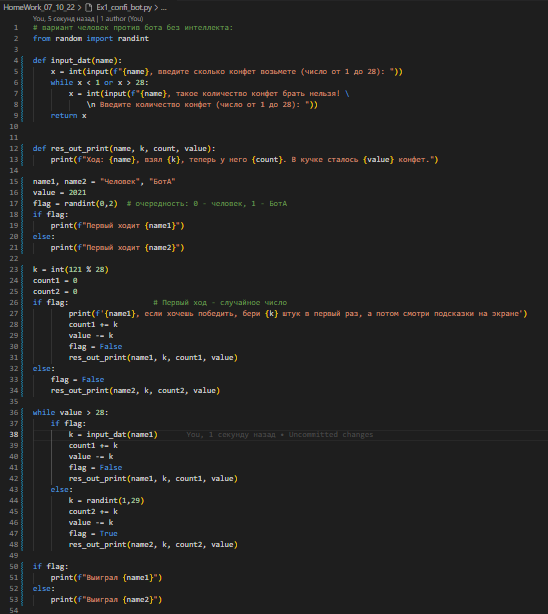
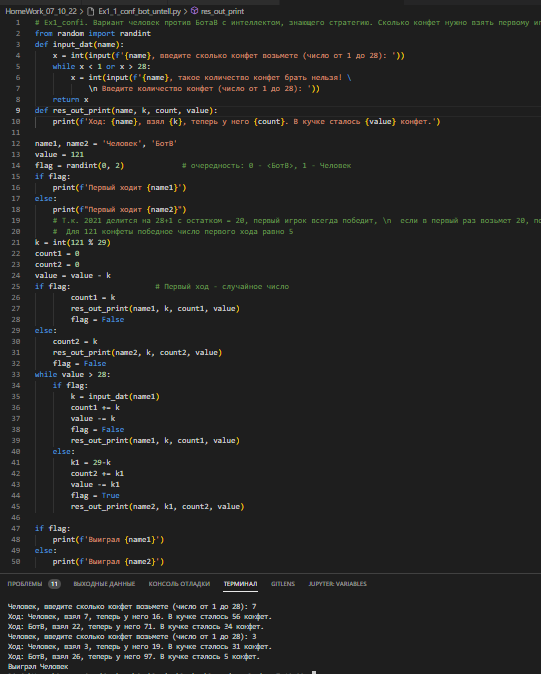
update Ex1_confi

diff --git a/HomeWork_07_10_22/Ex1_confi_bot.py b/HomeWork_07_10_22/Ex1_confi_bot.py
@@ -1,4 +1,60 @@
-# вариант человек против бота без интеллекта:
+# # Ex1_confi. Вариант человек против БотаВ с интеллектом, знающего стратегию. Сколько конфет нужно взять первому игроку, чтобы забрать все конфеты у своего конкурента?
+# from random import randint
+# def input_dat(name):
+#     x = int(input(f'{name}, введите сколько конфет возьмете (число от 1 до 28): '))
+#     while x < 1 or x > 28:
+#         x = int(input(f'{name}, такое количество конфет брать нельзя! \
+#             \n Введите количество конфет (число от 1 до 28): '))
+#     return x
+
+# def res_out_print(name, k, count, value):
+#     print(f'Ход: {name}, взял {k}, теперь у него {count}. В кучке сталось {value} конфет.')
+
+# name1, name2 = 'Человек', 'БотВ'
+# value = 121
+# flag = randint(0, 2)             # очередность: 0 - <БотВ>, 1 - Человек
+# if flag:
+#     print(f'Первый ходит {name1}')
+# else:
+#     print(f"Первый ходит {name2}")
+
+#     # Т.к. 2021 делится на 28 с остатком = 15, первый игрок всегда победит, \n
+#     # если в первый раз возьмет 15, потом будет дополнять сумму взятых за xод конфет до 28+1.
+#     #  Для 121 конфеты победное число первого хода равно 9
+# k = int(121 % 28)
+# count1 = 0
+# count2 = 0
+# value = value - k
+# if flag:                   # Первый ход - случайное число
+#         count1 = k
+#         res_out_print(name1, k, count1, value)
+#         flag = False
+# else:
+#     count2 = k
+#     res_out_print(name1, k, count2, value)
+#     flag = False
+# while value > 28:
+#     if flag:
+#         k = input_dat(name1)
+#         count1 += k
+#         value -= k
+#         flag = False
+#         res_out_print(name1, k, count1, value)
+#     else:
+#         k1 = 29-k
+#         count2 += k1
+#         value -= k1
+#         flag = True
+#         res_out_print(name2, k1, count2, value)
+
+# if flag:
+#     print(f'Выиграл {name1}')
+# else:
+#     print(f'Выиграл {name2}')
+
+
+
+вариант человек против бота без интеллекта:
 from random import randint
 
 def input_dat(name):

diff --git a/HomeWork_07_10_22/Ex1_1_conf_bot_untell.py b/HomeWork_07_10_22/Ex1_1_conf_bot_untell.py
@@ -1,0 +1,50 @@
+# Ex1_confi. Вариант человек против БотаВ с интеллектом, знающего стратегию. Сколько конфет нужно взять первому игроку, чтобы забрать все конфеты у своего конкурента?
+from random import randint
+def input_dat(name):
+    x = int(input(f'{name}, введите сколько конфет возьмете (число от 1 до 28): '))
+    while x < 1 or x > 28:
+        x = int(input(f'{name}, такое количество конфет брать нельзя! \
+            \n Введите количество конфет (число от 1 до 28): '))
+    return x
+def res_out_print(name, k, count, value):
+    print(f'Ход: {name}, взял {k}, теперь у него {count}. В кучке сталось {value} конфет.')
+
+name1, name2 = 'Человек', 'БотВ'
+value = 121
+flag = randint(0, 2)             # очередность: 0 - <БотВ>, 1 - Человек
+if flag:
+    print(f'Первый ходит {name1}')
+else:
+    print(f"Первый ходит {name2}")
+    # Т.к. 2021 делится на 28+1 с остатком = 20, первый игрок всегда победит, \n  если в первый раз возьмет 20, потом будет дополнять сумму взятых за xод конфет до 28+1.
+    #  Для 121 конфеты победное число первого хода равно 5
+k = int(121 % 29)
+count1 = 0
+count2 = 0
+value = value - k
+if flag:                   # Первый ход - случайное число
+        count1 = k
+        res_out_print(name1, k, count1, value)
+        flag = False
+else:
+    count2 = k
+    res_out_print(name2, k, count2, value)
+    flag = False
+while value > 28:
+    if flag:
+        k = input_dat(name1)
+        count1 += k
+        value -= k
+        flag = False
+        res_out_print(name1, k, count1, value)
+    else:
+        k1 = 29-k
+        count2 += k1
+        value -= k1
+        flag = True
+        res_out_print(name2, k1, count2, value)
+
+if flag:
+    print(f'Выиграл {name1}')
+else:
+    print(f'Выиграл {name2}')

diff --git a/README.md b/README.md
@@ -22,19 +22,13 @@
 
 a) Добавьте игру против бота; б) против бота с интеллектом
 
-Выполнение программы:
+Код программы и её выполнение:
 
 ![пример 1](https://github.com/EkaterinaGugina/Practicum_Python_11_10_22/blob/main/HomeWork_07_10_22/Ex1_conf_bot.png)
-![результат примера 1](https://github.com/EkaterinaGugina/Practicum_Python_11_10_22/blob/main/HomeWork_07_10_22/result_Ex1_confi_bot.png)
-### Ex2_(продолжение Ex1) Подумайте как наделить бота ""интеллектом""
 
-Выполнение программы:
+### Ex2_Создайте программу для игры в ""Крестики-нолики"
 
-![пример 2]()
-
-### Ex3_Создайте программу для игры в ""Крестики-нолики"
-
-Выполнение программы:
+Код программы и её выполнение:
 
 ![пример 3]()
 
@@ -42,7 +36,7 @@ a) Добавьте игру против бота; б) против бота с
 
 Входные и выходные данные хранятся в отдельных текстовых файлах.
 
-Код программы и её выполнение программы:
+Код программы и её выполнение:
 
 ![пример 3](https://github.com/EkaterinaGugina/Practicum_Python_11_10_22/blob/main/HomeWork_07_10_22/Ex3_rle_compr_decomr.png)
 ![выполнение примера 3](https://github.com/EkaterinaGugina/Practicum_Python_11_10_22/blob/main/HomeWork_07_10_22/result_Ex3_rle_compr_decomr.png)
